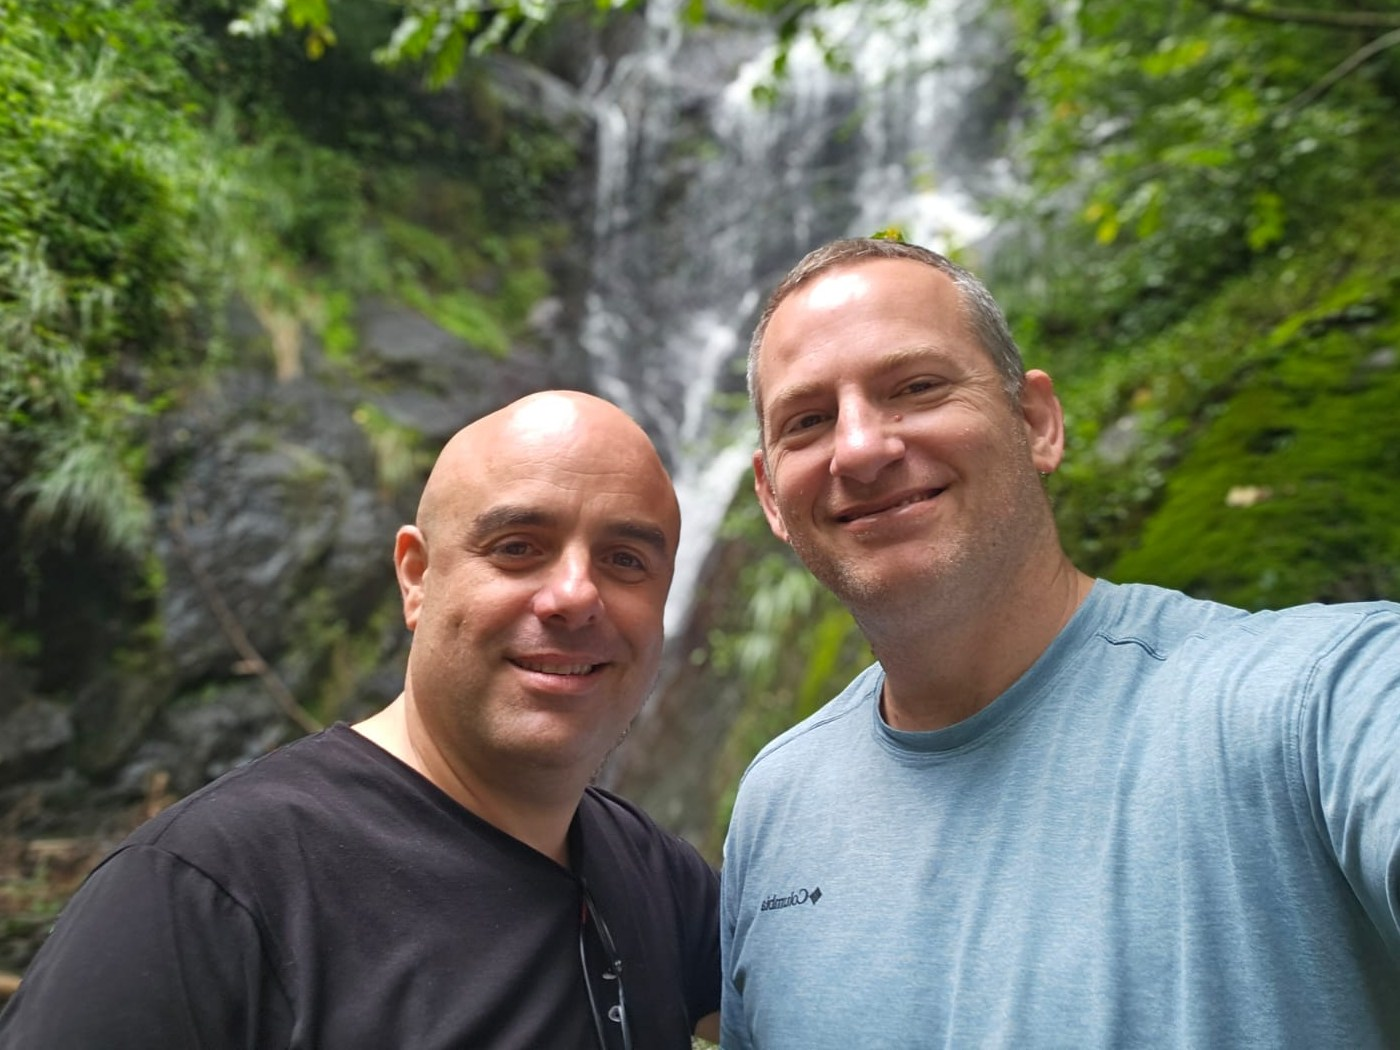
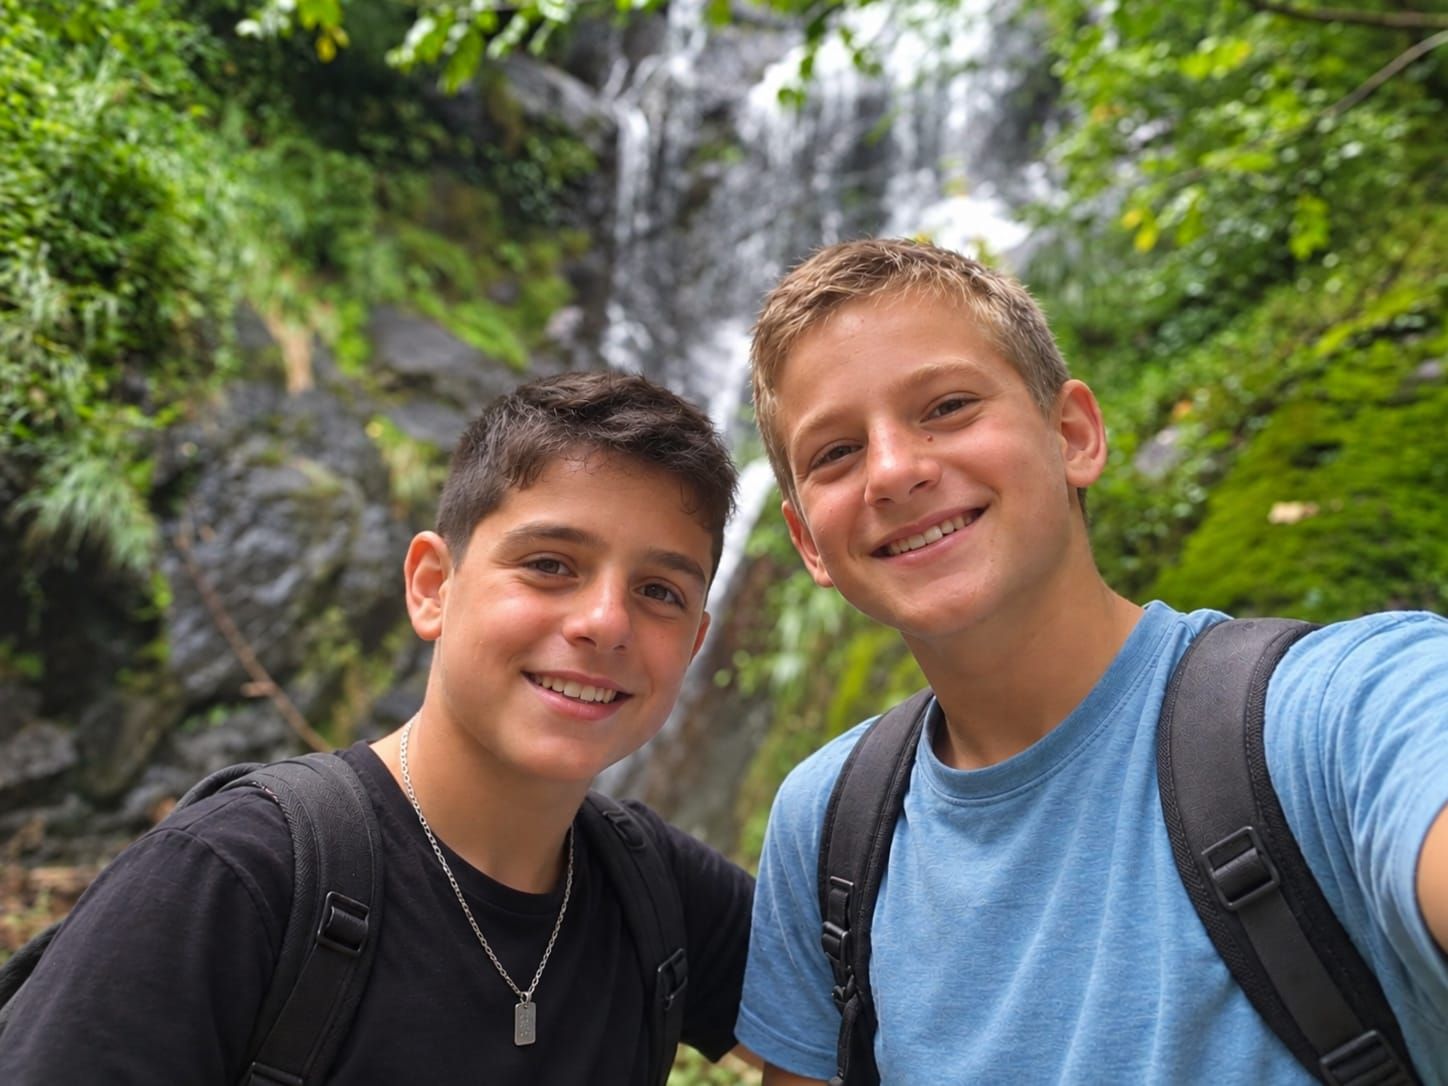
Reorder poem before Lior, clarify Achat Achat credit, fix names/photo/sizing
- Move poem section between CEO and Lior (was after Lior); renumber
  Lior's image 3 -> 4 accordingly.
- Spotlight section: relabel the "אחת אחת" quote header to make clear
  it's from an actual publication by the community, per Reut's note.
- Add Sarit's name for Guy Caspi's engagement card.
- Replace the CEO section photo with a new supplied image.
- Unify mobile sizing for the CEO photo, Lior's image, and the friend
  section image so all three full-width mobile photos render at the
  same size (removed inconsistent per-image max-width caps).

diff --git a/index.html b/index.html
@@ -524,10 +524,8 @@
       .nav-links { display: none; position: absolute; top: 68px; left: 0; right: 0; background: var(--paper); flex-direction: column; padding: 12px 16px; gap: 2px; border-bottom: 1px solid var(--rule-light); max-height: calc(100vh - 68px); overflow-y: auto; }
       .nav-links.open { display: flex; }
       .nav-mobile-btn { display: block; }
-      .ceo-photo-banner { max-width: 360px; }
       .featured-project > div { grid-template-columns: 1fr !important; }
       .lior-section { grid-template-columns: 1fr; }
-      .lior-img { max-width: 320px; margin: 0 auto; }
       .employees-grid { grid-template-columns: repeat(2, 1fr); }
       .completed-card { grid-template-columns: 1fr; height: auto; gap: 0; }
       .completed-img { max-height: 240px; }
@@ -683,7 +681,7 @@
       <div class="section-rule"></div>
     </div>
     <div class="ceo-photo-banner reveal">
-      <img src="images/2-ceo-photo.png" alt="שלומי ועמי" class="ceo-photo" onerror="this.src='images/placeholder.svg'">
+      <img src="images/2-ceo-photo.png" alt="פורן שרים" class="ceo-photo" onerror="this.src='images/placeholder.svg'">
     </div>
     <div class="ceo-text-area reveal">
       <span class="ceo-mark">"</span>
@@ -702,32 +700,6 @@
         <div>
           <div class="ceo-sign">שלכם,<br>שלומי שרים ועמי פורן</div>
         </div>
-      </div>
-    </div>
-  </div>
-</section>
-
-<!-- ══ LIOR ══ -->
-<section class="section section--alt" id="lior">
-  <div class="container">
-    <div class="section-header reveal">
-      <span class="section-tag">דבר הארה לחג</span>
-      <h2 class="section-title">"שנהיה לראש ולא לזנב"</h2>
-      <div class="section-rule"></div>
-    </div>
-    <div class="lior-section reveal">
-      <div>
-        <img src="images/3-lior-fish.png" alt="ראש השנה" class="lior-img" onerror="this.src='images/placeholder.svg'">
-      </div>
-      <div class="lior-body">
-        <p>בליל ראש השנה, נוהגים לקיים את סדר הסימנים בו אנו אוכלים לפני הסעודה המרכזית ואומרים ברכות לשנה החדשה: תפוח בדבש &ndash; "שתתחדש עלינו שנה טובה ומתוקה", רימון &ndash; "שירבו זכויותינו כרימון", תמר &ndash; "שיתמו שונאינו וכל מבקשי רעתנו", ועוד סימנים רבים, וביניהם גם נוהגים לקחת ראש כבש או ראש של דג ואומרים לסימנא מילתא "יהי רצון... שנהיה לראש ולא לזנב".</p>
-        <p>המקור לברכה זו כתוב בספר דברים בפרשת בחוקותי: "וּנְתָנְךָ ה' לְרֹאשׁ וְלֹא לְזָנָב וְהָיִיתָ רַק לְמַעְלָה"...</p>
-        <p>עיקר ברכה זו היא הזכות להיות הראש, להיות המנהיג, מתווה הדרך, מוביל, מחליט, מקדם, לשאוף &ndash; ולא להיות זנב, מי שהולך אחרי התלם, מושפע ונמשך אחר מעשיהם של אחרים. להיות ראש אומר להיות דוגמה ומופת בדרך, להיות עם דעה מוצקה וברורה, הגדרת מטרות, ותוכנית מוגדרת לאן הוא הולך, כיצד הוא הולך להשפיע טוב, להוביל, וכמובן לבדוק ולבקר את עצמו ולהשתפר לאורך הדרך.</p>
-        <p>להיות ראש זו ברכה, אך צריך תמיד לדאוג שהראש מסתכל תמיד למעלה, לא לתת לקשיים לגרום לך להוריד את הראש, אלא ללמוד מהם ולגדול.</p>
-        <p>בימים אלו לקראת ראש השנה, זו הזדמנות של כל אחד מאיתנו לחשבון נפש, ביחוד בימים שנותרו בחודש אלול &ndash; שמשמעותו מלשון "יאללון", שהוא בתרגום ארמי לשון "ריגול וחיפוש אחר מעשיו". לחשוב על הדברים שלא הספקנו השנה, שלא הצלחנו לממש, לחשוב כיצד לתקן דברים שעדיין לא הספקנו, להתפייס ולמחול.</p>
-        <p>להחליט השנה "להיות לראש ולא לזנב", להיות מנהיגים בכל מקום בו אנו נמצאים, לעשות טוב לעצמנו, למשפחה, בעבודה ובכל מקום שידינו מגעת אליו.</p>
-        <p>מאחל לנו שנזכה לשנה של בריאות, שגשוג, הצלחה, אהבה ונתינה.</p>
-        <div class="lior-sign">שנה טובה ומתוקה!!<br>ליאור אוחנה</div>
       </div>
     </div>
   </div>
@@ -821,6 +793,32 @@
       </div>
 
       <div class="poem-ornament">&#10047; &#10047; &#10047;</div>
+    </div>
+  </div>
+</section>
+
+<!-- ══ LIOR ══ -->
+<section class="section section--alt" id="lior">
+  <div class="container">
+    <div class="section-header reveal">
+      <span class="section-tag">דבר הארה לחג</span>
+      <h2 class="section-title">"שנהיה לראש ולא לזנב"</h2>
+      <div class="section-rule"></div>
+    </div>
+    <div class="lior-section reveal">
+      <div>
+        <img src="images/4-lior-fish.png" alt="ראש השנה" class="lior-img" onerror="this.src='images/placeholder.svg'">
+      </div>
+      <div class="lior-body">
+        <p>בליל ראש השנה, נוהגים לקיים את סדר הסימנים בו אנו אוכלים לפני הסעודה המרכזית ואומרים ברכות לשנה החדשה: תפוח בדבש &ndash; "שתתחדש עלינו שנה טובה ומתוקה", רימון &ndash; "שירבו זכויותינו כרימון", תמר &ndash; "שיתמו שונאינו וכל מבקשי רעתנו", ועוד סימנים רבים, וביניהם גם נוהגים לקחת ראש כבש או ראש של דג ואומרים לסימנא מילתא "יהי רצון... שנהיה לראש ולא לזנב".</p>
+        <p>המקור לברכה זו כתוב בספר דברים בפרשת בחוקותי: "וּנְתָנְךָ ה' לְרֹאשׁ וְלֹא לְזָנָב וְהָיִיתָ רַק לְמַעְלָה"...</p>
+        <p>עיקר ברכה זו היא הזכות להיות הראש, להיות המנהיג, מתווה הדרך, מוביל, מחליט, מקדם, לשאוף &ndash; ולא להיות זנב, מי שהולך אחרי התלם, מושפע ונמשך אחר מעשיהם של אחרים. להיות ראש אומר להיות דוגמה ומופת בדרך, להיות עם דעה מוצקה וברורה, הגדרת מטרות, ותוכנית מוגדרת לאן הוא הולך, כיצד הוא הולך להשפיע טוב, להוביל, וכמובן לבדוק ולבקר את עצמו ולהשתפר לאורך הדרך.</p>
+        <p>להיות ראש זו ברכה, אך צריך תמיד לדאוג שהראש מסתכל תמיד למעלה, לא לתת לקשיים לגרום לך להוריד את הראש, אלא ללמוד מהם ולגדול.</p>
+        <p>בימים אלו לקראת ראש השנה, זו הזדמנות של כל אחד מאיתנו לחשבון נפש, ביחוד בימים שנותרו בחודש אלול &ndash; שמשמעותו מלשון "יאללון", שהוא בתרגום ארמי לשון "ריגול וחיפוש אחר מעשיו". לחשוב על הדברים שלא הספקנו השנה, שלא הצלחנו לממש, לחשוב כיצד לתקן דברים שעדיין לא הספקנו, להתפייס ולמחול.</p>
+        <p>להחליט השנה "להיות לראש ולא לזנב", להיות מנהיגים בכל מקום בו אנו נמצאים, לעשות טוב לעצמנו, למשפחה, בעבודה ובכל מקום שידינו מגעת אליו.</p>
+        <p>מאחל לנו שנזכה לשנה של בריאות, שגשוג, הצלחה, אהבה ונתינה.</p>
+        <div class="lior-sign">שנה טובה ומתוקה!!<br>ליאור אוחנה</div>
+      </div>
     </div>
   </div>
 </section>
@@ -1100,7 +1098,7 @@
 
       <div class="birth-card reveal">
         <img src="images/8-weddings-rings.png" alt="טבעות אירוסין" class="birth-icon" style="width:96px;height:auto;margin:0 auto 12px;display:block;">
-        <div class="birth-parent">גיא כספי ובת זוגו</div>
+        <div class="birth-parent">גיא כספי ושרית</div>
         <div class="birth-baby">מזל טוב לרגל אירוסיכם</div>
         <div class="birth-blessing">מאחלים לכם דרך משותפת מלאה באהבה, בשמחה ובהתרגשות.</div>
       </div>
@@ -1266,7 +1264,7 @@
         <h4>החותם האישי</h4>
         <p>התחנה שהיא הכי גאה בה: תפקידה האחרון בצה"ל &ndash; ראש ענף צה"ל לנגב. עינת הייתה שותפה מרכזית למהלך הלאומי של העברת הבסיסים דרומה, הקימה מערכי ניהול מאפס והובילה פרויקטים בהיקף של מעל 500,000 מ"ר: קריית ההדרכה, התקשוב והמודיעין. לצד אלו, היא גאה במיוחד בפרויקט משכן האוספים ב"יד ושם", פרויקט שדרש שילוב נדיר בין מורכבות הנדסית לבין רגישות אנושית עמוקה לשימור זיכרון השואה.</p>
         <p>מעבר לעבודה, עינת היא אמא לשלוש בנות וסבתא לשני נכדים! בזמנה הפנוי תמצאו אותה קוראת, מטיילת בעולם ושומרת באדיקות על קשרים עם חברים שליוו אותה לאורך כל תחנות הקריירה.</p>
-        <h4>"אחת אחת" בשבילי</h4>
+        <h4>פרסום שיצא במסגרת קהילת "אחת אחת"</h4>
         <div class="spotlight-quote">"חשוב לי להיות חלק מקהילה שמתווה את הדרך לנשים צעירות בענף. אני מאמינה שלנשים יש יתרון בראייה מערכתית וניהולית רחבה, וקהילה כזו מאפשרת שיתוף ידע, חיזוק של הדור הבא ויצירת רשת מקצועית תומכת."</div>
         <h4>טיפ למתחילות</h4>
         <div class="spotlight-quote">"אל תפחדו מענף שנחשב גברי &ndash; בסופו של דבר נבחנים לפי מקצועיות, אחריות ויכולת. תהיו יסודיות, תלמדו את השטח ואל תחששו לקחת אחריות ולהציג דעה. הסיפוק כשרואים בסוף את מה שבנית הוא אדיר."</div>
@@ -1292,7 +1290,7 @@
         <p>תעוזה ויוזמה: כמעט כל תפקיד משמעותי בקריירה שלה התחיל במשפט "מעולם לא עשיתי את זה קודם". הרמת הטלפון למנהל באינטל שינתה את המסלול המקצועי שלה.</p>
         <p>להעביר את האמון הלאה ולבנות סטנדרט מקצועי: כמי שקיבלה הזדמנויות גם ללא ניסיון קודם, יפעת משקיעה בצוות שלה, מזהה פוטנציאל ונותנת אחריות אמיתית. לצד זה היא גאה במיוחד בסטנדרט המקצועי של הצוות &ndash; ירידה לפרטים, חשיבה כמה צעדים קדימה ועבודה שאנשים יכולים לסמוך עליה.</p>
         <p>מעבר לעבודה, יפעת היא אמא לשלושה ילדים (בת 9, בן 2.5 ובת 2), כך שניהול סיכונים, תעדוף ומשא ומתן מיושמים אצלה מדי יום גם בבית. מבחינתה, הצלחה היא גם לסיים יום עמוס ומלא אחריות עם חיוך.</p>
-        <h4>"אחת אחת" בשבילי</h4>
+        <h4>פרסום שיצא במסגרת קהילת "אחת אחת"</h4>
         <div class="spotlight-quote">"בתחילת הדרך למדתי לא מעט לבד. עם השנים הבנתי שאין תחליף לאנשים מנוסים שאפשר להתייעץ איתם. 'אחת אחת' היא קהילה שמאפשרת ללמוד, לפתוח דלתות, לשתף מניסיון ולהיות הכתובת שמישהי אחרת מחפשת בתחילת הדרך שלה."</div>
         <h4>טיפ למתחילות</h4>
         <div class="spotlight-quote">"אל תחליטו בשביל אחרים שאתן עדיין לא מוכנות. אל תחכו שדלתות ייפתחו &ndash; לפעמים צריך פשוט לדפוק עליהן. חפשו מנטור/ית שיעזרו לכן לראות דברים מזווית אחרת, ויאמינו בכן רגע לפני שאתן מאמינות בעצמכן."</div>
